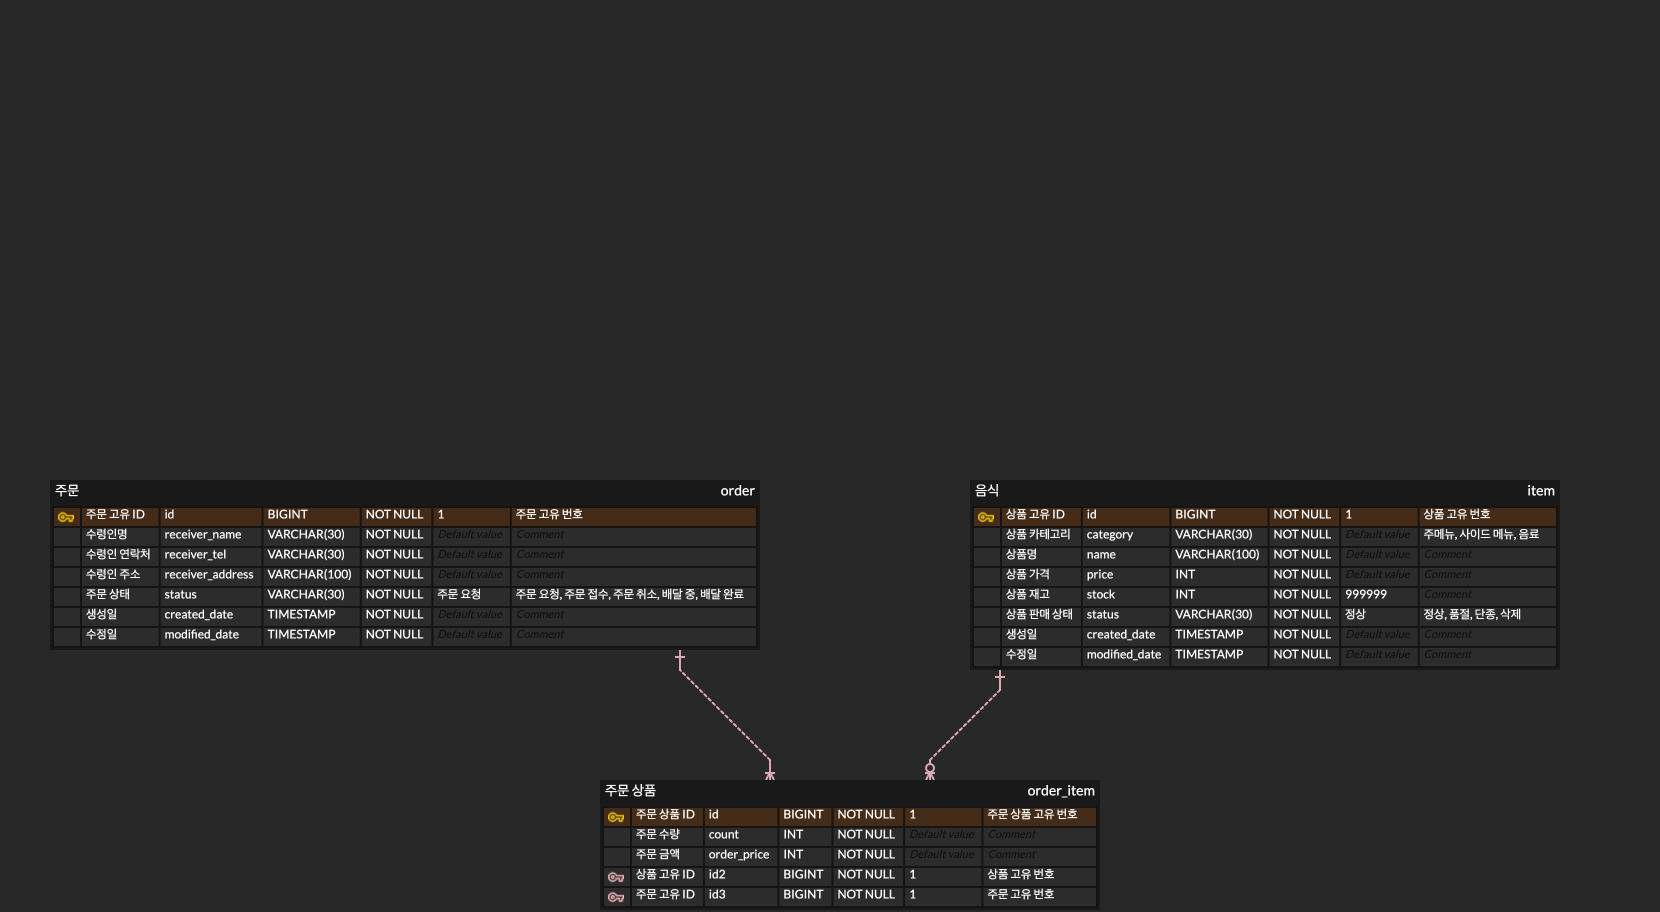
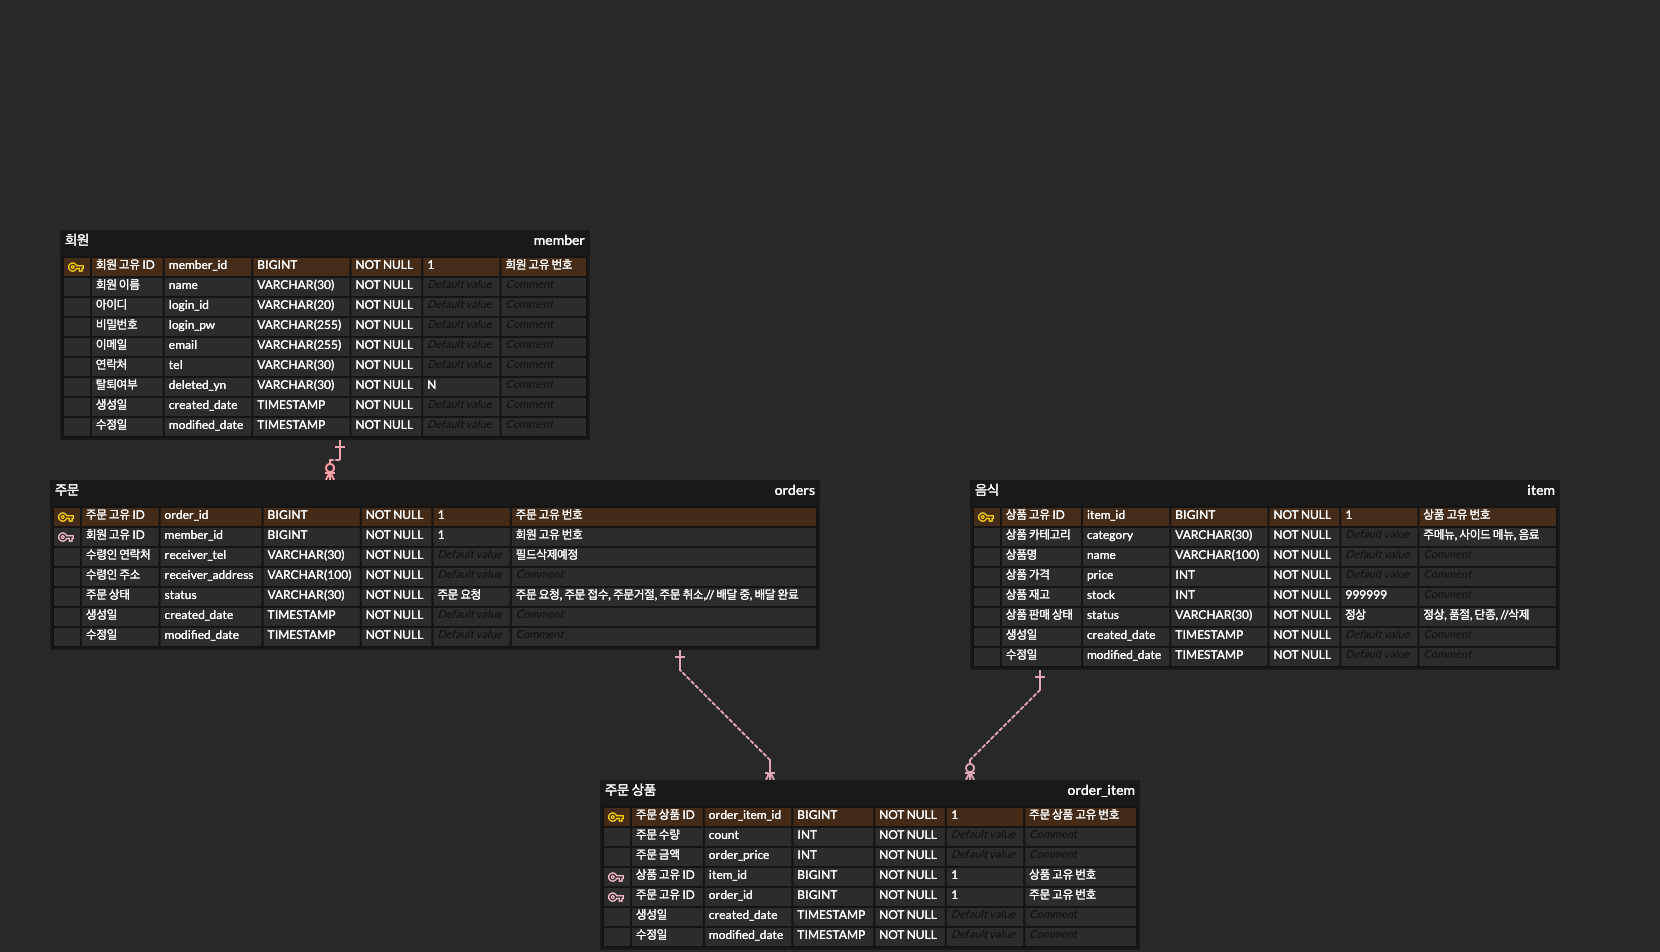
docs: Update README.md

diff --git a/README.md b/README.md
@@ -10,15 +10,33 @@
 │   │           └── delivery
 │   │               ├── DeliveryApplication.java
 │   │               └── domain
+│   │                   ├── common
+│   │                   │   └── BaseTimeEntity.java
 │   │                   ├── item
 │   │                   │   ├── Item.java
+│   │                   │   ├── ItemCategory.java
 │   │                   │   ├── ItemController.java
 │   │                   │   ├── ItemRepository.java
+│   │                   │   ├── ItemSaleStatus.java
 │   │                   │   ├── ItemService.java
 │   │                   │   └── dto
-│   │                   │       ├── ItemCreateRequestDto.java
-│   │                   │       ├── ItemResponseDto.java
-│   │                   │       └── ItemUpdateRequestDto.java
+│   │                   │       ├── ItemCreateRequest.java
+│   │                   │       ├── ItemCreateResponse.java
+│   │                   │       ├── ItemInfoResponse.java
+│   │                   │       ├── ItemUpdateRequest.java
+│   │                   │       └── ItemUpdateResponse.java
+│   │                   ├── member
+│   │                   │   ├── Member.java
+│   │                   │   ├── MemberController.java
+│   │                   │   ├── MemberRepository.java
+│   │                   │   ├── MemberService.java
+│   │                   │   └── dto
+│   │                   │       ├── MemberCreateRequest.java
+│   │                   │       ├── MemberCreateResponse.java
+│   │                   │       ├── MemberDeleteRequest.java
+│   │                   │       ├── MemberInfoResponse.java
+│   │                   │       ├── MemberUpdateRequest.java
+│   │                   │       └── MemberUpdateResponse.java
 │   │                   └── order
 │   │                       ├── Order.java
 │   │                       ├── OrderController.java
@@ -26,12 +44,13 @@
 │   │                       ├── OrderItemRepository.java
 │   │                       ├── OrderRepository.java
 │   │                       ├── OrderService.java
+│   │                       ├── OrderStatus.java
 │   │                       └── dto
-│   │                           ├── OrderItemRequestDto.java
-│   │                           ├── OrderRequestDto.java
-│   │                           ├── OrderResponseDto.java
-│   │                           ├── PriceRequestDto.java
-│   │                           └── PriceResponseDto.java
+│   │                           ├── ItemPriceResponse.java
+│   │                           ├── OrderCreateRequest.java
+│   │                           ├── OrderCreateResponse.java
+│   │                           ├── OrderItemAddRequest.java
+│   │                           └── TotalPriceRequest.java
 │   └── resources
 │       ├── application.yml
 │       ├── static
@@ -45,17 +64,17 @@
 ```
 
 ### Member(회원)
-| 한글명         | 영문명              | 설명                         |
-|:------------|:-----------------|:---------------------------|
-| 회원 아이디      | id               | 회원 고유 번호입니다.               |
-| 회원 이름       | name             | 회원 이름입니다.                  |
-| 회원 로그인 아이디  | loginId          | 회원의 로그인 아이디입니다.            |
-| 회원 로그인 비밀번호 | loginPw          | 회원의 로그인 비밀번호입니다.           |
-| 회원 이메일      | email            | 회원의 이메일입니다.                |
-| 회원 연락처      | tel              | 회원의 연락처입니다.                |
-| 회원 탈퇴여부     | deletedYn        | 회원의 탈퇴여부입니다. 디폴트 값은 N 입니다. |
-| 생성일         | createdDate      | 생성일입니다.                    |
-| 수정일         | modifiedDate     | 수정일입니다.                    |
+| 한글명         | 영문명          | 설명                         |
+|:------------|:-------------|:---------------------------|
+| 회원 아이디      | id           | 회원 고유 번호입니다.               |
+| 회원 이름       | name         | 회원 이름입니다.                  |
+| 회원 로그인 아이디  | loginId      | 회원의 로그인 아이디입니다.            |
+| 회원 로그인 비밀번호 | loginPw      | 회원의 로그인 비밀번호입니다.           |
+| 회원 이메일      | email        | 회원의 이메일입니다.                |
+| 회원 연락처      | tel          | 회원의 연락처입니다.                |
+| 회원 탈퇴여부     | deletedYn    | 회원의 탈퇴여부입니다. 디폴트 값은 N 입니다. |
+| 생성일         | createdDate  | 생성일입니다.                    |
+| 수정일         | modifiedDate | 수정일입니다.                    |
 
 ### ItemEntity(음식 엔티티)
 | 한글명      | 영문명          | 설명                                                  |
@@ -73,10 +92,10 @@
 | 한글명     | 영문명             | 설명                                           |
 |:--------|:----------------|:---------------------------------------------|
 | 주문 아이디  | id              | 주문 고유 번호입니다.                                 |
+| 회원      | member          | Member 입니다.                                  |
 | 수령자 연락처 | receiverTel     | 배송 받는 사람 연락처입니다.                             |
 | 배송지 주소  | receiverAddress | 배송 받을 주소입니다.                                 |
 | 주문 상태   | orderStatus     | 주문 상태를 나타냅니다. 예) 주문 요청, 주문 접수, 주문 거절, 주문 취소  |
-| 회원      | member          | Member 입니다.                                  |
 | 생성일     | createdDate     | 생성일입니다.                                      |
 | 수정일     | modifiedDate    | 수정일입니다.                                      |
 
@@ -84,10 +103,10 @@
 | 한글명        | 영문명              | 설명               |
 |:-----------|:-----------------|:-----------------|
 | 주문 상품 아이디  | id               | 주문한 상품 고유 번호입니다. |
-| 주문 상품 수량   | count            | 주문한 상품 수량입니다.    |
-| 주문 상품 가격   | orderPrice       | 주문한 상품의 가격입니다.   |
 | 상품         | item             | Item 입니다.        |
 | 주문         | order            | Order 입니다.       |
+| 주문 상품 수량   | count            | 주문한 상품 수량입니다.    |
+| 주문 상품 가격   | orderPrice       | 주문한 상품의 가격입니다.   |
 | 생성일        | createdDate      | 생성일입니다.          |
 | 수정일        | modifiedDate     | 수정일입니다.          |
 
@@ -111,13 +130,13 @@
 | 음식 개별 삭제   | `DELETE`    | https://localhost:8080/items/{id} |
 
 ### 주문(Order) API
-| 요청             | HTTP Method | API                                         |
-|----------------|-------------|---------------------------------------------|
-| 주문하기           | `POST`      | https://localhost:8080/orders               |
-| 주문 취소하기        | `PUT`       | https://localhost:8080/orders/{id}          |
-| 주문 내역 전체 조회    | `GET`       | https://localhost:8080/orders               |
-| 주문 내역 개별 전체 조회 | `GET`       | https://localhost:8080/orders/{receiverTel} |
-| 주문 내역 단일 조회    | `GET`       | https://localhost:8080/orders/{id}          |
+| 요청          | HTTP Method | API                                         |
+|-------------|-------------|---------------------------------------------|
+| 주문하기        | `POST`      | https://localhost:8080/orders               |
+| 주문 취소하기     | `PATCH`     | https://localhost:8080/orders/{id}          |
+| 주문 거절하기     | `PATCH`     | https://localhost:8080/orders/{id}          |
+| 주문 내역 전체 조회 | `GET`       | https://localhost:8080/orders               |
+| 주문 내역 단일 조회 | `GET`       | https://localhost:8080/orders/{id}          |
 
 ### 음식(item) + 식당(shop) API
 | 요청              | HTTP Method   | API                                          |
